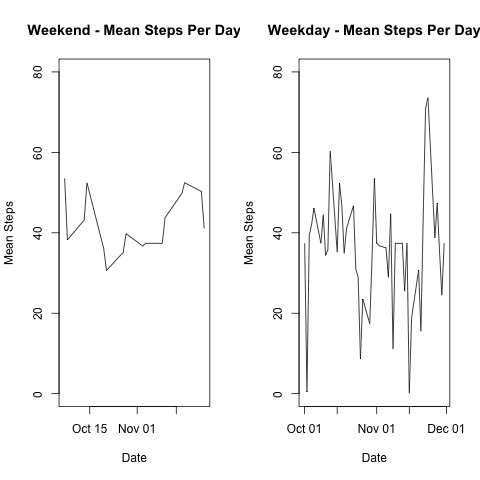
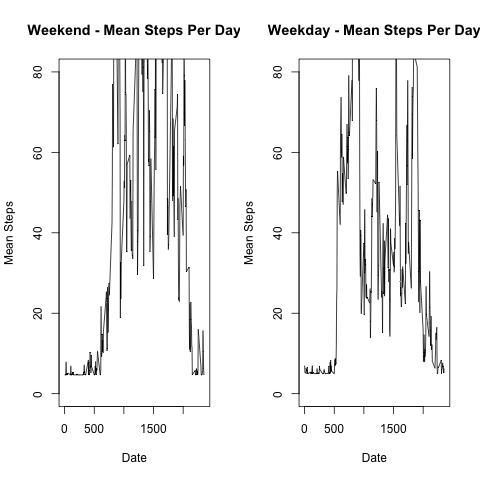
Final2

diff --git a/PA1_RobertMiller.html b/PA1_RobertMiller.html
@@ -206,7 +206,7 @@ print(paste0(&quot;Mean number of steps across the 61 day period: &quot;, meanDD
 png(&quot;./figures/lineplot1.png&quot;,480,480)
 
 plot(meandevicedata,type=&quot;l&quot;,ylab=&quot;Mean Steps&quot;,
-     xlab=&quot;Date&quot;,
+     xlab=&quot;Interval&quot;,
      main=&quot;Mean Steps Per Day&quot;)
 dev.off()</code></pre>
 <pre><code>## quartz_off_screen 
@@ -250,7 +250,7 @@ meandevicedata&lt;-aggregate(steps~interval,FUN=mean,data=tempdevicedata)
 png(&quot;./figures/lineplot2.png&quot;,480,480)
 
 plot(meandevicedata,type=&quot;l&quot;,ylab=&quot;Mean Steps&quot;,
-     xlab=&quot;Date&quot;,
+     xlab=&quot;Interval&quot;,
      main=&quot;Mean Steps Per Day with Imputed Values&quot;)
 dev.off()</code></pre>
 <pre><code>## quartz_off_screen 
@@ -292,25 +292,23 @@ wknddevicedata&lt;-tempdevicedata[tempdevicedata$wk==&quot;weekend&quot;,]
 wkdydevicedata&lt;-tempdevicedata[tempdevicedata$wk!=&quot;weekend&quot;,]
 
 
-wknddevicedata&lt;-aggregate(steps~date,
+wknddevicedata&lt;-aggregate(steps~interval,
                           wknddevicedata,
                           mean)
 
-png(&quot;./panelplot1.png&quot;,480,480)
-par(mfrow=c(1,2))
+png(&quot;./figures/panelplot1.png&quot;,480,480)
+par(mfrow=c(2,1))
 plot(wknddevicedata,type=&quot;l&quot;,ylab=&quot;Mean Steps&quot;,
-     xlab=&quot;Date&quot;,
-     ylim=c(0,80),
+     xlab=&quot;Interval&quot;,
      main=&quot;Weekend - Mean Steps Per Day&quot;)
 
-wkdydevicedata&lt;-aggregate(steps~date,
+wkdydevicedata&lt;-aggregate(steps~interval,
                           wkdydevicedata,
                           mean)
 
 
 plot(wkdydevicedata,type=&quot;l&quot;,ylab=&quot;Mean Steps&quot;,
-     xlab=&quot;Date&quot;,
-     ylim=c(0,80),
+     xlab=&quot;Interval&quot;,
      main=&quot;Weekday - Mean Steps Per Day&quot;)
 dev.off()</code></pre>
 <pre><code>## quartz_off_screen 
